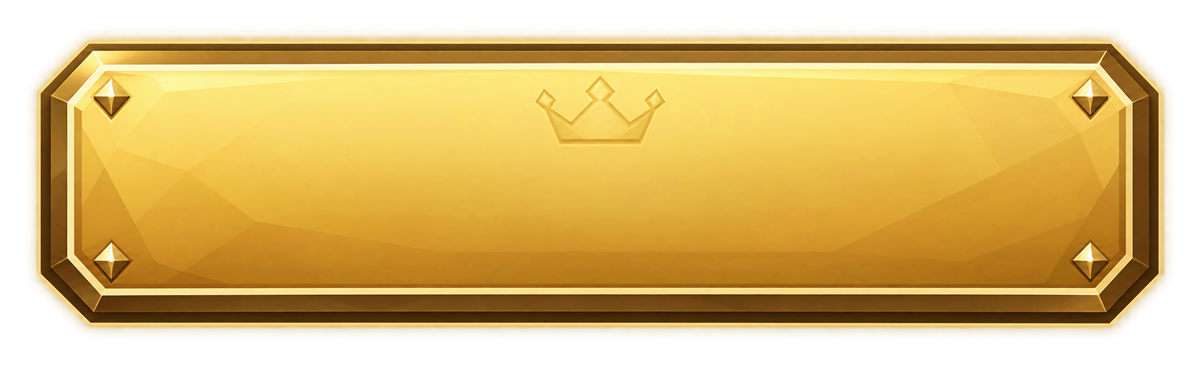
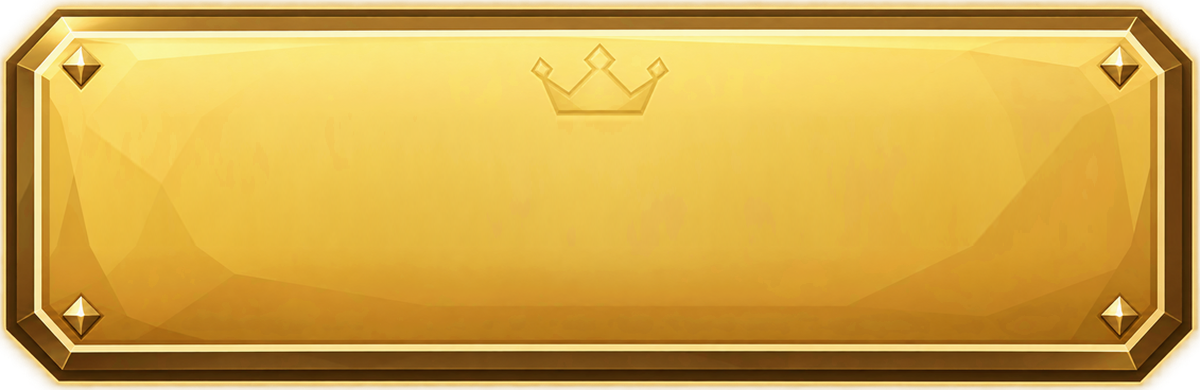
WIP: owner home art uploaded and wired (group 22)
Claude-Session: https://claude.ai/code/session_01Gz7SZPtYrWLv8AbBvzdLHQ

diff --git a/docs/IMAGE_PROMPTS.md b/docs/IMAGE_PROMPTS.md
@@ -365,7 +365,12 @@ When these come in: upload them with `tools/upload_icons.py`, then run `tools/ge
 
 ---
 
-## 22. New requests: home screen pieces, 7 images (`art/ui/home/`)
+## 22. New requests: home screen pieces, 7 images (`art/ui/home/`) (DONE)
+
+DONE: made by the owner, uploaded with `tools/upload_art.py` and wired (the drawn stand-ins hide
+once each picture loads). Moderation: all 7 Approved (checked after upload). The PLAY
+plate was cropped to the plate (outer glow removed, calm middle band stretched to 1200x390) so it
+fills the button; the dock frame was re-laid out so its border sits on the 9-slice edges.
 
 The home screen (owner reference `home-mockup`) is rebuilt to the reference's layout, but a few
 pieces are drawn with plain UI shapes as a **best-effort stand-in, not a match**: the ornate PLAY
